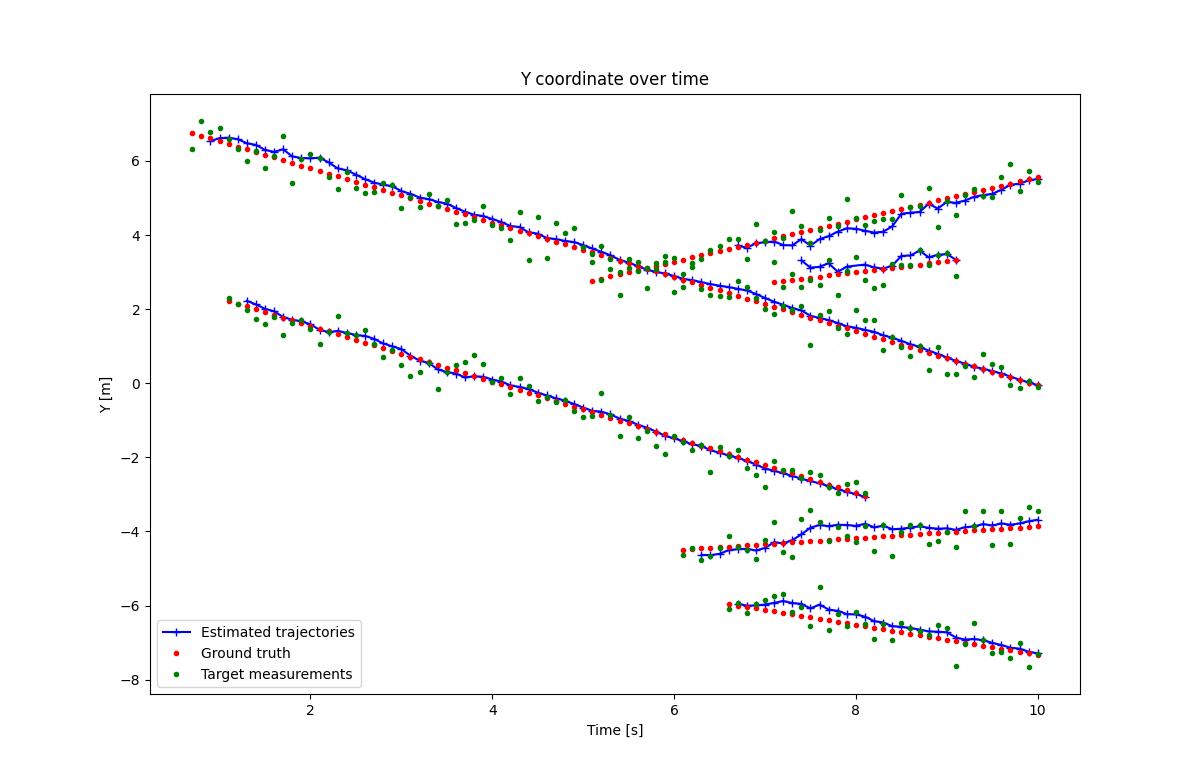
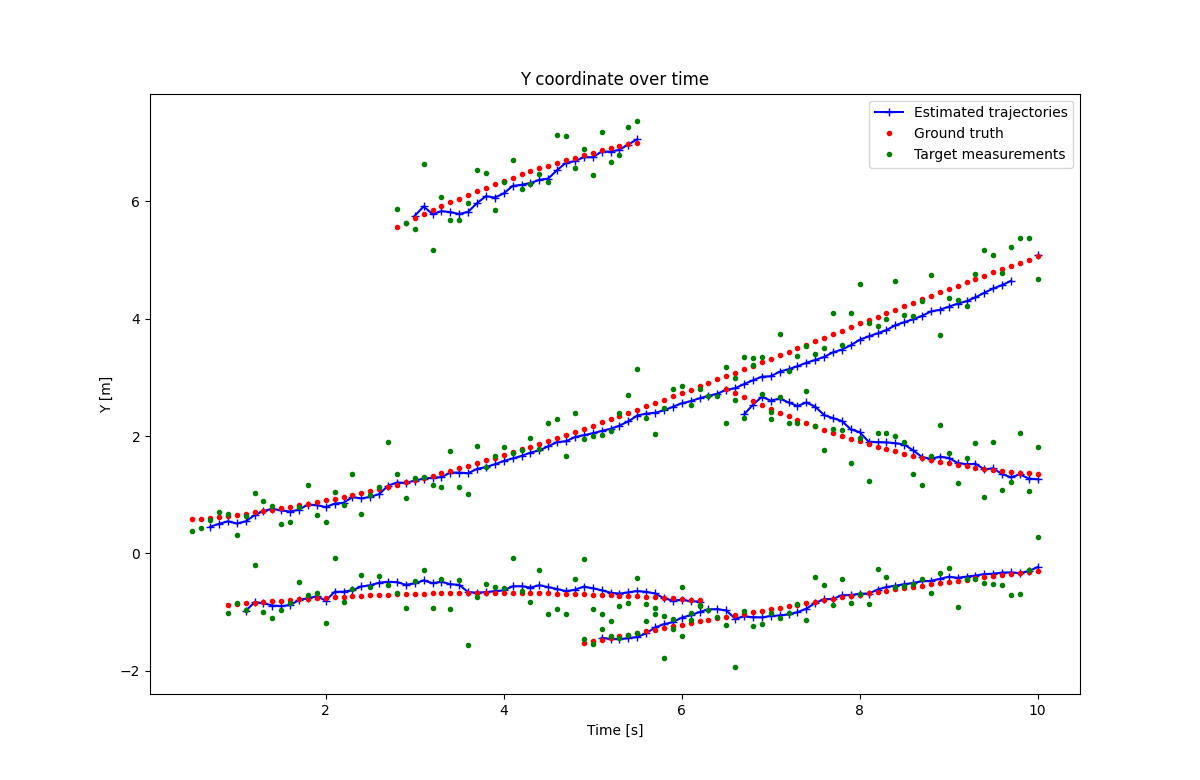
feat: enhance simulation with constant-turn-rate trajectories and update example plots

diff --git a/example/example.cpp b/example/example.cpp
@@ -1,5 +1,6 @@
 #include <algorithm>
 #include <array>
+#include <cmath>
 #include <filesystem>
 #include <initializer_list>
 #include <iostream>
@@ -24,7 +25,7 @@ constexpr double clutter_area_max = 20.0;
 constexpr double ospa_cutoff = 10.0;
 constexpr double ospa_order = 2.0;
 
-constexpr unsigned int random_seed = 20261018u;
+constexpr unsigned int random_seed = 0;  // 20261018u;
 using Filter = gm_phd_example::GmPhdCv;
 using Measurements = std::vector<Filter::Measurement>;
 
@@ -42,6 +43,7 @@ struct SimulatedObject {
   size_t first_scan;
   size_t last_scan;
   Filter::StateVector state;
+  double turn_rate;
 };
 
 struct Simulation {
@@ -67,6 +69,8 @@ Simulation GenerateSimulation(const unsigned int seed) {
   std::uniform_int_distribution<size_t> duration_dist(20u, measurements_number);
   std::uniform_real_distribution<double> pose_dist(-10.0, 10.0);
   std::uniform_real_distribution<double> velocity_dist(-1.0, 1.0);
+  std::uniform_real_distribution<double> turn_rate_dist(0.08, 0.2);
+  std::bernoulli_distribution turn_direction_dist(0.5);
   std::uniform_real_distribution<double> clutter_position_dist(clutter_area_min, clutter_area_max);
   std::poisson_distribution<size_t> clutter_count_dist(8.0);
   std::normal_distribution<double> measurement_noise(0.0, 0.3);
@@ -82,8 +86,9 @@ Simulation GenerateSimulation(const unsigned int seed) {
   for (size_t index = 0u; index < objects_number; ++index) {
     const auto first_scan = draw(start_dist);
     const auto last_scan = std::min(measurements_number - 1u, first_scan + draw(duration_dist));
-    SimulatedObject object{first_scan, last_scan, Filter::StateVector::Zero()};
+    SimulatedObject object{first_scan, last_scan, Filter::StateVector::Zero(), 0.0};
     object.state << draw(pose_dist), draw(velocity_dist), draw(pose_dist), draw(velocity_dist);
+    object.turn_rate = draw(turn_rate_dist) * (draw(turn_direction_dist) ? 1.0 : -1.0);
     objects.push_back(object);
   }
 
@@ -93,9 +98,15 @@ Simulation GenerateSimulation(const unsigned int seed) {
         continue;
       }
       const auto elapsed = static_cast<double>(scan - object.first_scan) * dt;
+      const auto turn_angle = object.turn_rate * elapsed;
+      const auto sin_turn = std::sin(turn_angle);
+      const auto cos_turn = std::cos(turn_angle);
       Filter::Measurement truth;
-      truth.value << object.state(0u) + elapsed * object.state(1u),
-          object.state(2u) + elapsed * object.state(3u);
+      truth.value << object.state(0u) +
+                         (object.state(1u) * sin_turn + object.state(3u) * (cos_turn - 1.0)) /
+                             object.turn_rate,
+          object.state(2u) + (object.state(1u) * (1.0 - cos_turn) + object.state(3u) * sin_turn) /
+                                 object.turn_rate;
       simulation.truth.at(scan).push_back(truth);
 
       auto measurement = truth;

diff --git a/README.md b/README.md
@@ -29,7 +29,8 @@ hypotheses. This makes it possible to track targets that can:
 
 The current example uses a constant-velocity (CV) motion model and generates a
 random scene with a varying number of objects, dynamic births and deaths,
-measurements, filtering, and plots.
+measurements, filtering, and plots. Ground-truth objects follow smooth
+constant-turn-rate trajectories, while the filter retains its CV motion model.
 
 The simulation sends all target and clutter measurements through the filter,
 including the measurement-conditioned birth model. The example uses fixed seeds
